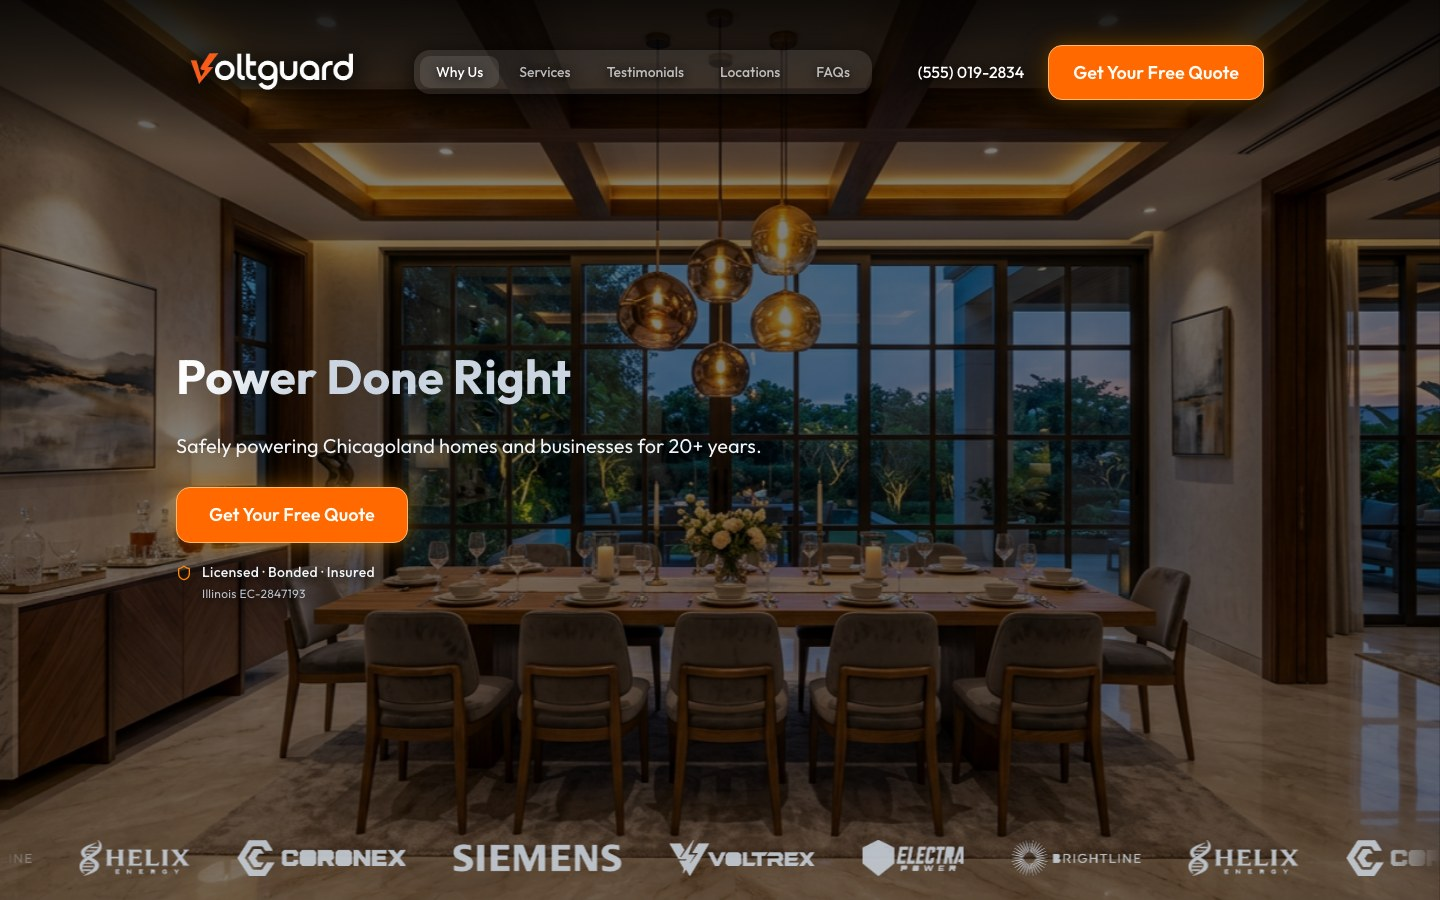
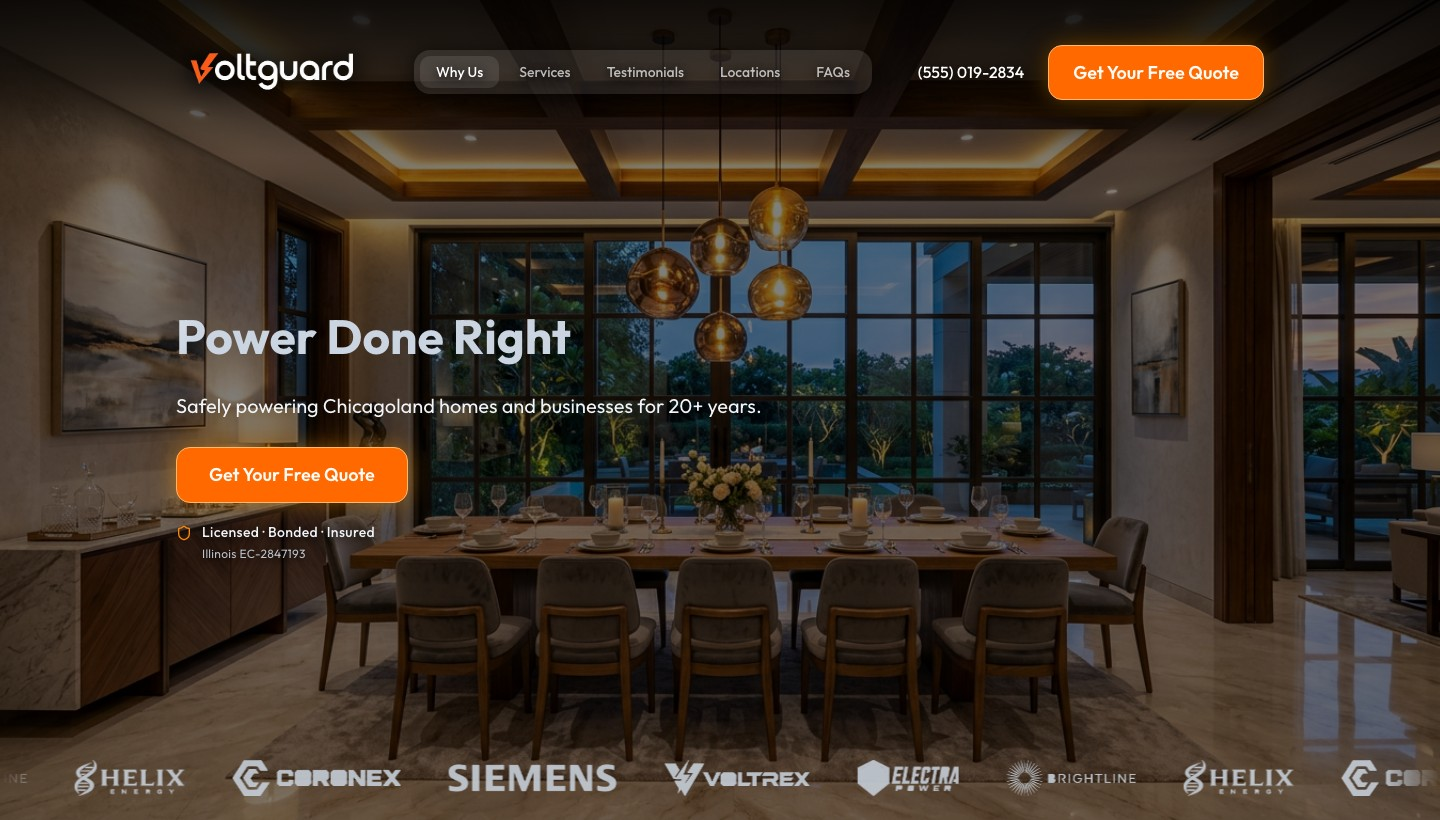
Polish mobile nav, How it works controls, and website preview.
Keep the header logo size stable across pages, add clear Back/Next step controls, and clean up the mobile website background and desktop preview framing.

diff --git a/src/App.css b/src/App.css
@@ -335,8 +335,13 @@
 
 .fluxgrid-app .logo {
   display: flex;
+  flex-shrink: 0;
   align-items: center;
   text-decoration: none;
+}
+
+.fluxgrid-app header .logo {
+  flex: 0 0 auto;
 }
 
 .fluxgrid-app .fluxgrid-logo {
@@ -346,6 +351,14 @@
   height: auto;
   object-fit: contain;
   filter: none;
+}
+
+.fluxgrid-app header .fluxgrid-logo,
+.fluxgrid-app header .fluxgrid-logo--md {
+  flex-shrink: 0;
+  width: auto;
+  max-width: none;
+  height: 36px;
 }
 
 .fluxgrid-app .fluxgrid-logo--sm {
@@ -2369,7 +2382,9 @@
 
   .fluxgrid-app .header-mobile-link {
     display: inline-flex;
+    flex-shrink: 1;
     align-items: center;
+    min-width: 0;
     margin-left: auto;
     margin-right: 8px;
     padding: 0;
@@ -2385,12 +2400,22 @@
 
   .fluxgrid-app .header-mobile-cta {
     display: inline-flex;
+    flex: 0 0 auto;
     flex-shrink: 0;
     align-items: center;
     min-height: 40px;
     padding: 10px 14px;
     font-size: 13px;
     white-space: nowrap;
+  }
+
+  .fluxgrid-app header .logo,
+  .fluxgrid-app header .fluxgrid-logo,
+  .fluxgrid-app header .fluxgrid-logo--md {
+    flex-shrink: 0;
+    width: auto;
+    max-width: none;
+    height: 36px;
   }
 
   .fluxgrid-app .audience-grid,
@@ -4054,36 +4079,50 @@
     color: var(--text-muted);
   }
 
-  .fluxgrid-app .hiw-mobile-dots {
-    display: flex;
+  .fluxgrid-app .hiw-mobile-controls {
+    display: grid;
+    grid-template-columns: 1fr auto 1fr;
     align-items: center;
-    justify-content: center;
-    gap: 10px;
+    gap: 12px;
+    width: 100%;
+    max-width: 340px;
+    margin: 0 auto;
   }
 
-  .fluxgrid-app .hiw-mobile-dots__dot {
-    width: 8px;
-    height: 8px;
+  .fluxgrid-app .hiw-mobile-controls__btn {
+    min-height: 44px;
     margin: 0;
-    padding: 12px;
-    border: 0;
-    border-radius: 50%;
-    background: rgba(26, 29, 36, 0.18);
-    background-clip: content-box;
+    padding: 10px 14px;
+    border: 1px solid var(--border-subtle);
+    border-radius: var(--radius-md);
+    background: rgba(255, 255, 255, 0.8);
+    color: var(--text-light);
+    font-size: 14px;
+    font-weight: 600;
+    letter-spacing: -0.01em;
     cursor: pointer;
     appearance: none;
-    transition: background 0.2s ease, transform 0.2s ease;
   }
 
-  .fluxgrid-app .hiw-mobile-dots__dot.is-active {
-    background: var(--accent);
-    background-clip: content-box;
-    transform: scale(1.15);
+  .fluxgrid-app .hiw-mobile-controls__btn--next {
+    justify-self: end;
+    background: rgba(143, 111, 26, 0.12);
+    border-color: rgba(143, 111, 26, 0.3);
+    color: var(--text-light);
   }
 
-  .fluxgrid-app .hiw-mobile-dots__dot:focus-visible {
+  .fluxgrid-app .hiw-mobile-controls__status {
+    margin: 0;
+    font-size: 13px;
+    font-weight: 600;
+    letter-spacing: 0.02em;
+    color: var(--text-muted);
+    white-space: nowrap;
+  }
+
+  .fluxgrid-app .hiw-mobile-controls__btn:focus-visible {
     outline: 2px solid var(--accent);
-    outline-offset: 2px;
+    outline-offset: 3px;
   }
 }
 
@@ -6537,8 +6576,8 @@
   width: 100%;
   overflow: hidden;
   border-radius: var(--radius-xl);
-  border: 1px solid var(--border-color);
-  background: var(--bg-elevated);
+  border: 1px solid rgba(26, 29, 36, 0.2);
+  background: #0b0e14;
   box-shadow: var(--shadow-md);
 }
 
@@ -6546,9 +6585,9 @@
   display: block;
   width: 100%;
   height: auto;
-  aspect-ratio: 16 / 10;
+  aspect-ratio: 1440 / 820;
   object-fit: cover;
-  object-position: top center;
+  object-position: left top;
 }
 
 .fluxgrid-app .website-results__iframe {
@@ -6977,6 +7016,28 @@
 
   .fluxgrid-app .website-hero {
     padding: 32px 0 8px;
+    overflow: hidden;
+  }
+
+  .fluxgrid-app .website-hero .hero-section__wash,
+  .fluxgrid-app .hero-section .hero-section__wash {
+    background:
+      radial-gradient(ellipse 70% 55% at 50% 18%, rgba(245, 173, 66, 0.08) 0%, transparent 70%);
+    mask-image: linear-gradient(to bottom, black 70%, transparent 100%);
+  }
+
+  .fluxgrid-app .website-hero .circuit-lines,
+  .fluxgrid-app .hero-section .circuit-lines {
+    bottom: 0;
+    opacity: 0.35;
+    mask-image: linear-gradient(to bottom, black 0%, black 45%, transparent 78%);
+  }
+
+  .fluxgrid-app .website-hero .circuit-lines__path--extend,
+  .fluxgrid-app .hero-section .circuit-lines__path--extend,
+  .fluxgrid-app .website-hero .circuit-lines__node--extend,
+  .fluxgrid-app .hero-section .circuit-lines__node--extend {
+    display: none;
   }
 
   .fluxgrid-app .website-hero__grid {

diff --git a/src/components/HowItWorksSection.tsx b/src/components/HowItWorksSection.tsx
@@ -107,6 +107,14 @@ function MobileStory() {
     }, STEP_DURATION_MS * 2);
   }, []);
 
+  const goPrev = useCallback(() => {
+    selectStep((activeStep - 1 + steps.length) % steps.length);
+  }, [activeStep, selectStep]);
+
+  const goNext = useCallback(() => {
+    selectStep((activeStep + 1) % steps.length);
+  }, [activeStep, selectStep]);
+
   const onPointerDown = (event: ReactPointerEvent<HTMLDivElement>) => {
     if (event.pointerType === 'mouse' && event.button !== 0) {
       return;
@@ -127,9 +135,9 @@ function MobileStory() {
     }
 
     if (delta < 0) {
-      selectStep((activeStep + 1) % steps.length);
+      goNext();
     } else {
-      selectStep((activeStep - 1 + steps.length) % steps.length);
+      goPrev();
     }
   };
 
@@ -172,18 +180,16 @@ function MobileStory() {
         </AnimatePresence>
       </div>
 
-      <div className="hiw-mobile-dots" role="tablist" aria-label="How FluxGrid works">
-        {steps.map((step, index) => (
-          <button
-            key={step.num}
-            type="button"
-            role="tab"
-            aria-selected={activeStep === index}
-            aria-label={`Step ${step.num}: ${step.title}`}
-            className={`hiw-mobile-dots__dot${activeStep === index ? ' is-active' : ''}`}
-            onClick={() => selectStep(index)}
-          />
-        ))}
+      <div className="hiw-mobile-controls">
+        <button type="button" className="hiw-mobile-controls__btn" onClick={goPrev}>
+          Back
+        </button>
+        <p className="hiw-mobile-controls__status" aria-live="polite">
+          {activeStep + 1} of {steps.length}
+        </p>
+        <button type="button" className="hiw-mobile-controls__btn hiw-mobile-controls__btn--next" onClick={goNext}>
+          Next
+        </button>
       </div>
     </div>
   );